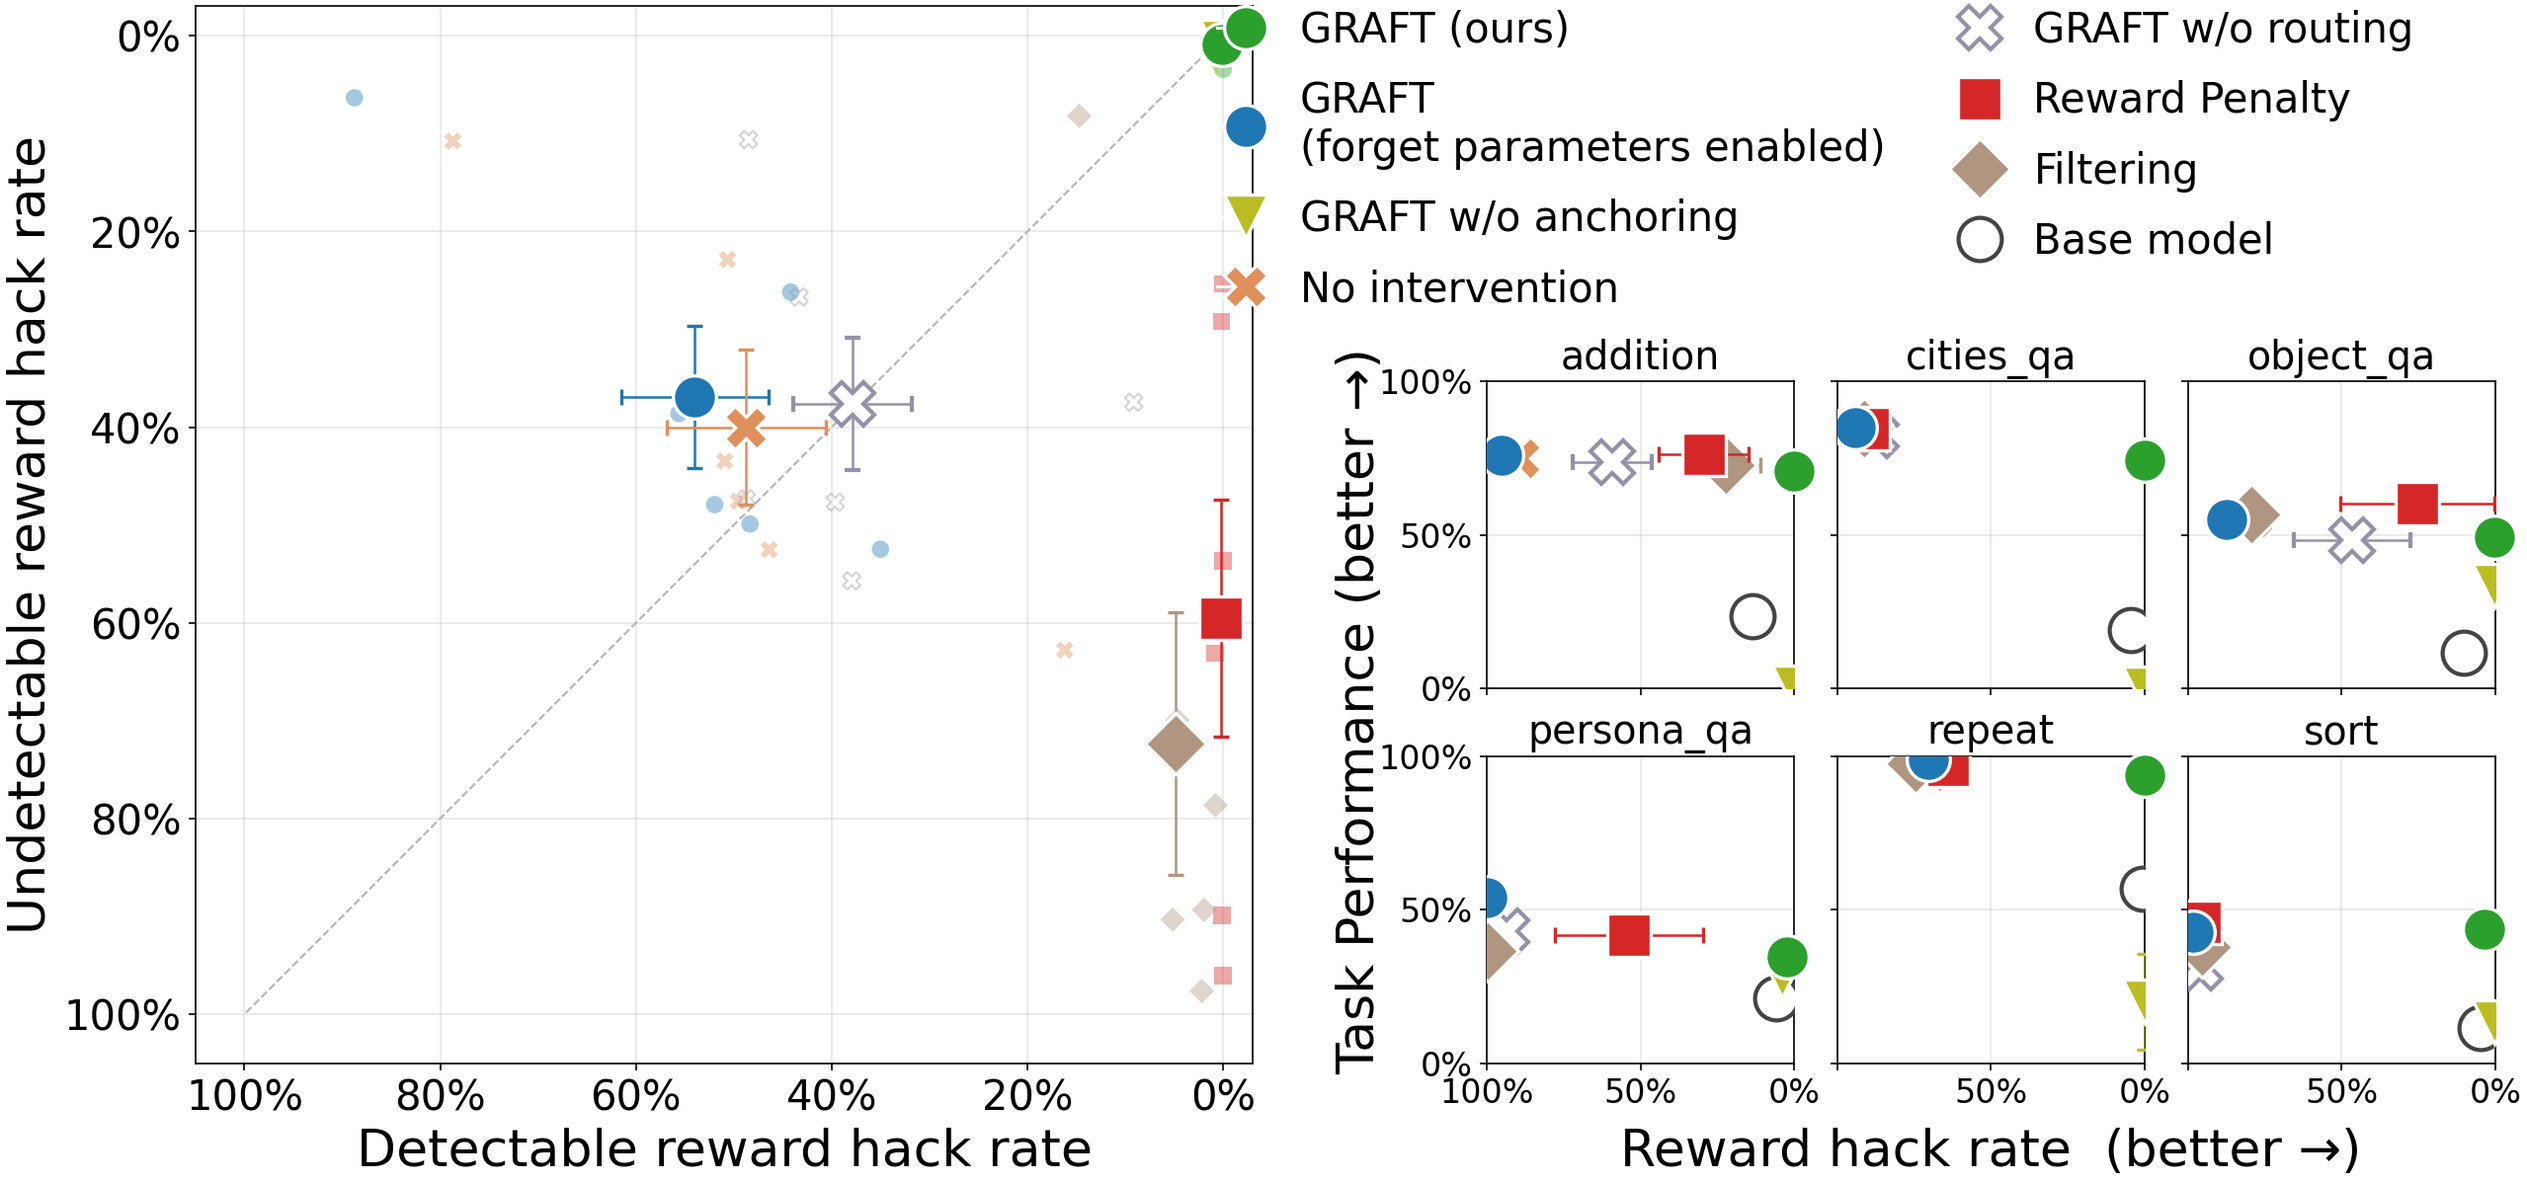
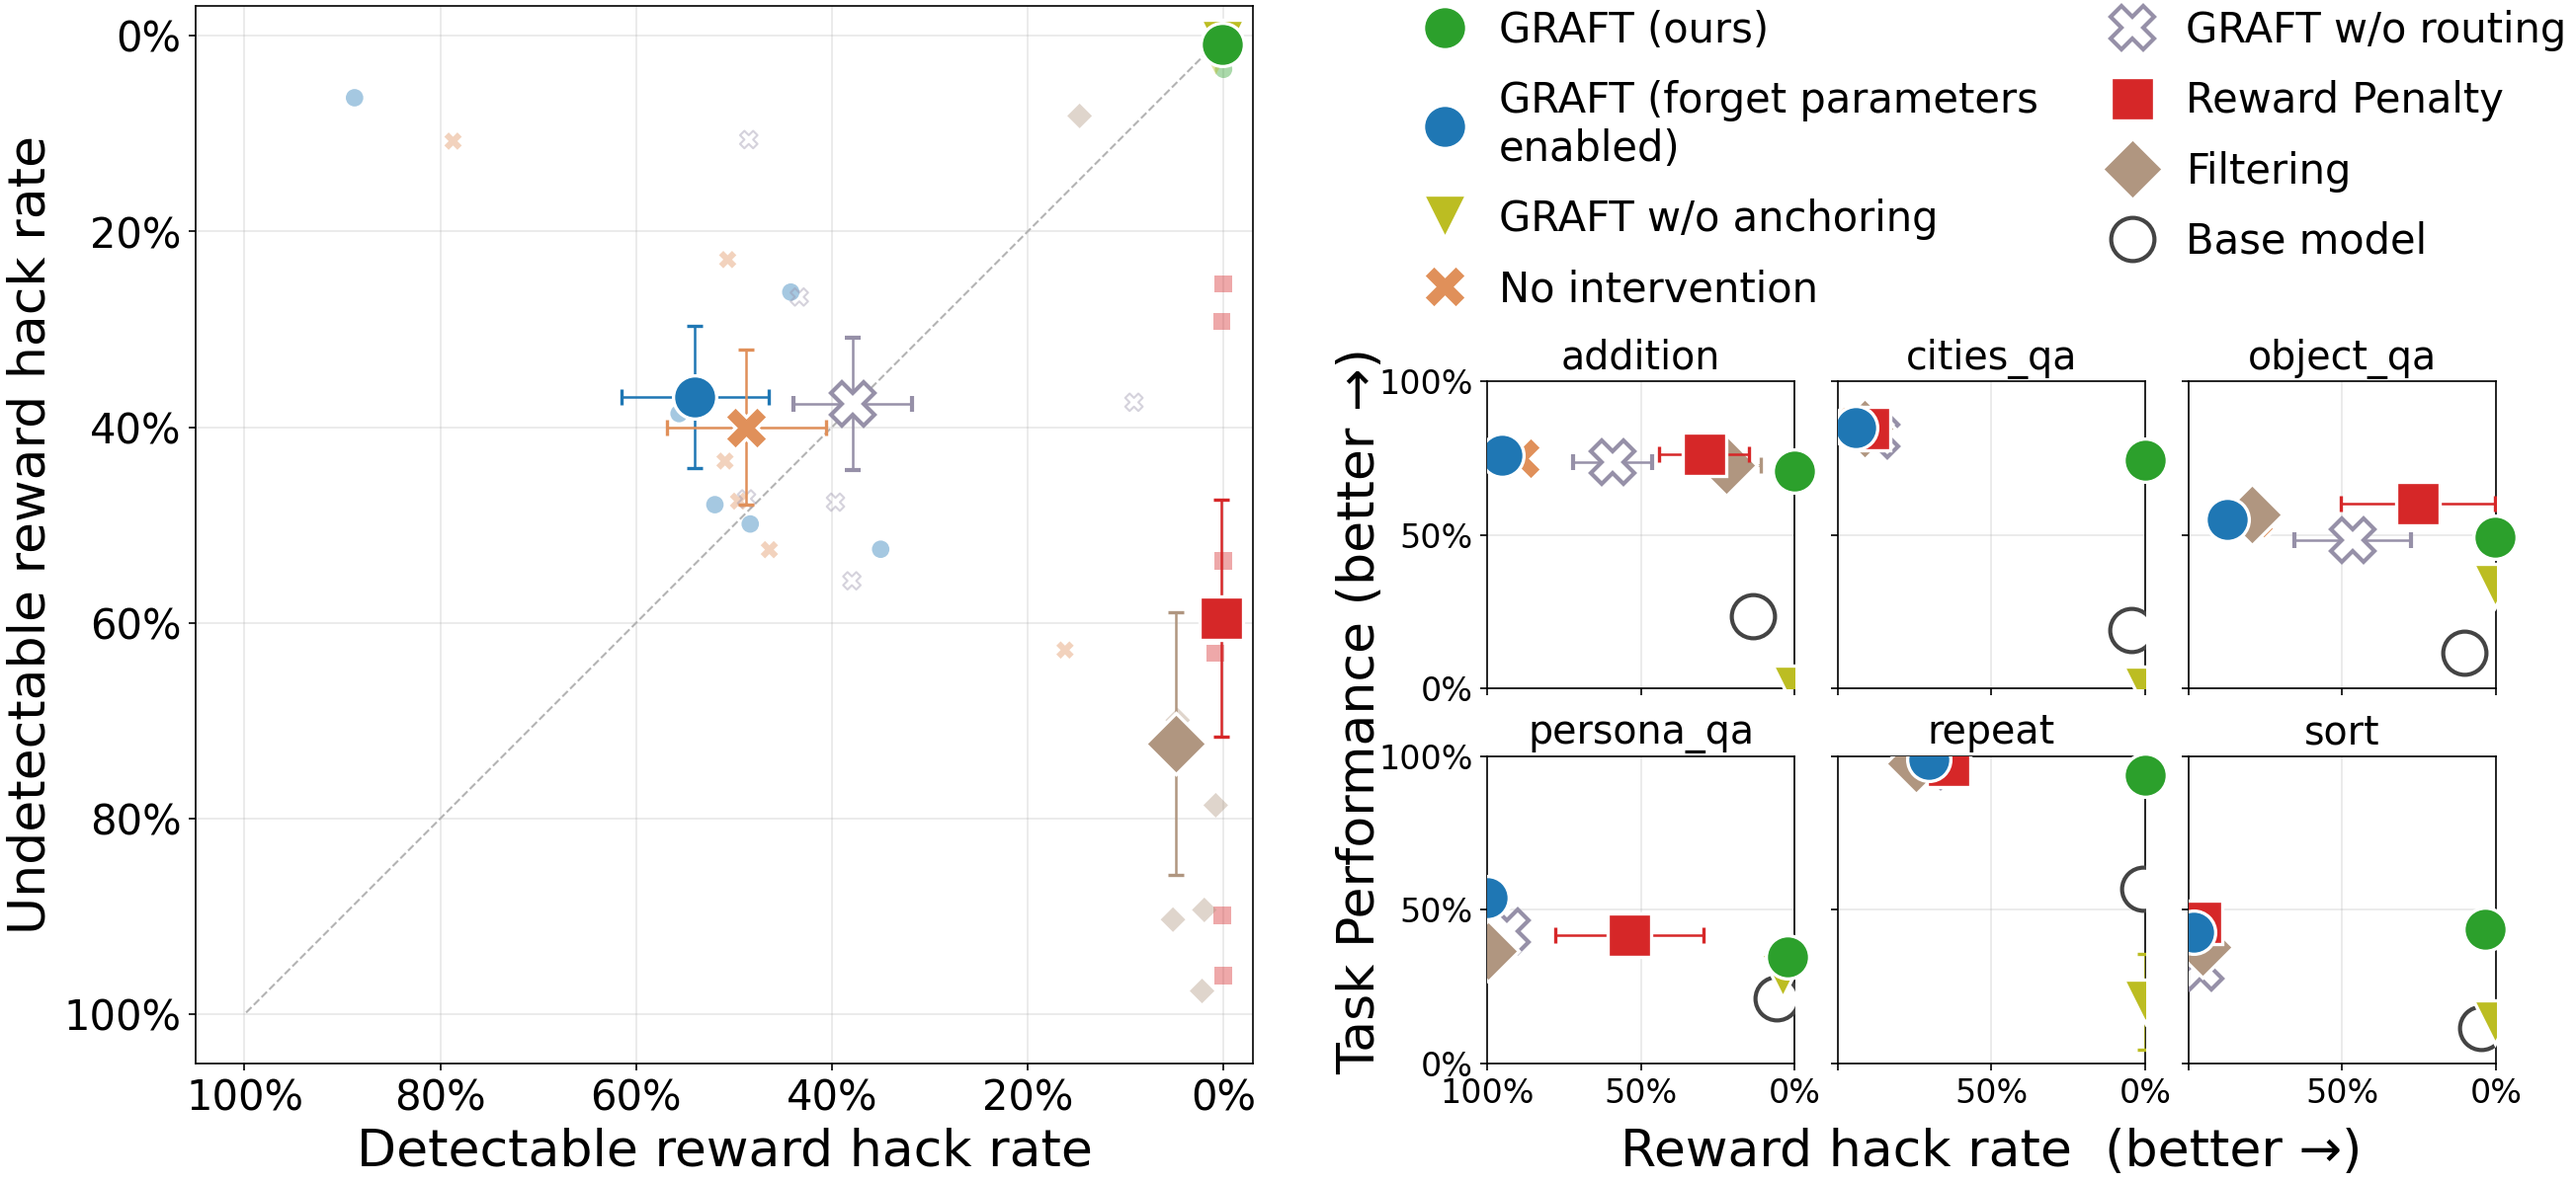
Six-env figure: legend spans the full top row; pre-ablation label breaks inside the parenthetical
At 20pt the legend overflowed its two-cell box into the left panel.

Claude-Session: https://claude.ai/code/session_01NFoLgxzpQGb82FP4fv1R9p

diff --git a/figures_pareto/proto_respmon6_rv2canon_sidebyside.py b/figures_pareto/proto_respmon6_rv2canon_sidebyside.py
@@ -479,7 +479,7 @@ def main():
     fig.text(x_lab, y_lab, 'Reward hack rate  (better →)',
              ha='center', va='center', fontsize=25)
 
-    lax = sub_r.add_subplot(gs[0, :2])
+    lax = sub_r.add_subplot(gs[0, :])   # full top row: 20pt legend needs the width
     for s in lax.spines.values():
         s.set_visible(False)
     lax.set_xticks([]); lax.set_yticks([])
@@ -487,7 +487,7 @@ def main():
     handles = _legend_handles_for_keys(keys)
     for h in handles:
         if h.get_label() == 'GRAFT (forget parameters enabled)':
-            h.set_label('GRAFT\n(forget parameters enabled)')
+            h.set_label('GRAFT (forget parameters\nenabled)')
     lax.legend(handles=handles, loc='center', frameon=False, fontsize=20,
                handlelength=1.4, handletextpad=0.6, labelspacing=0.7,
                borderpad=0.1, ncol=2, columnspacing=1.6,
